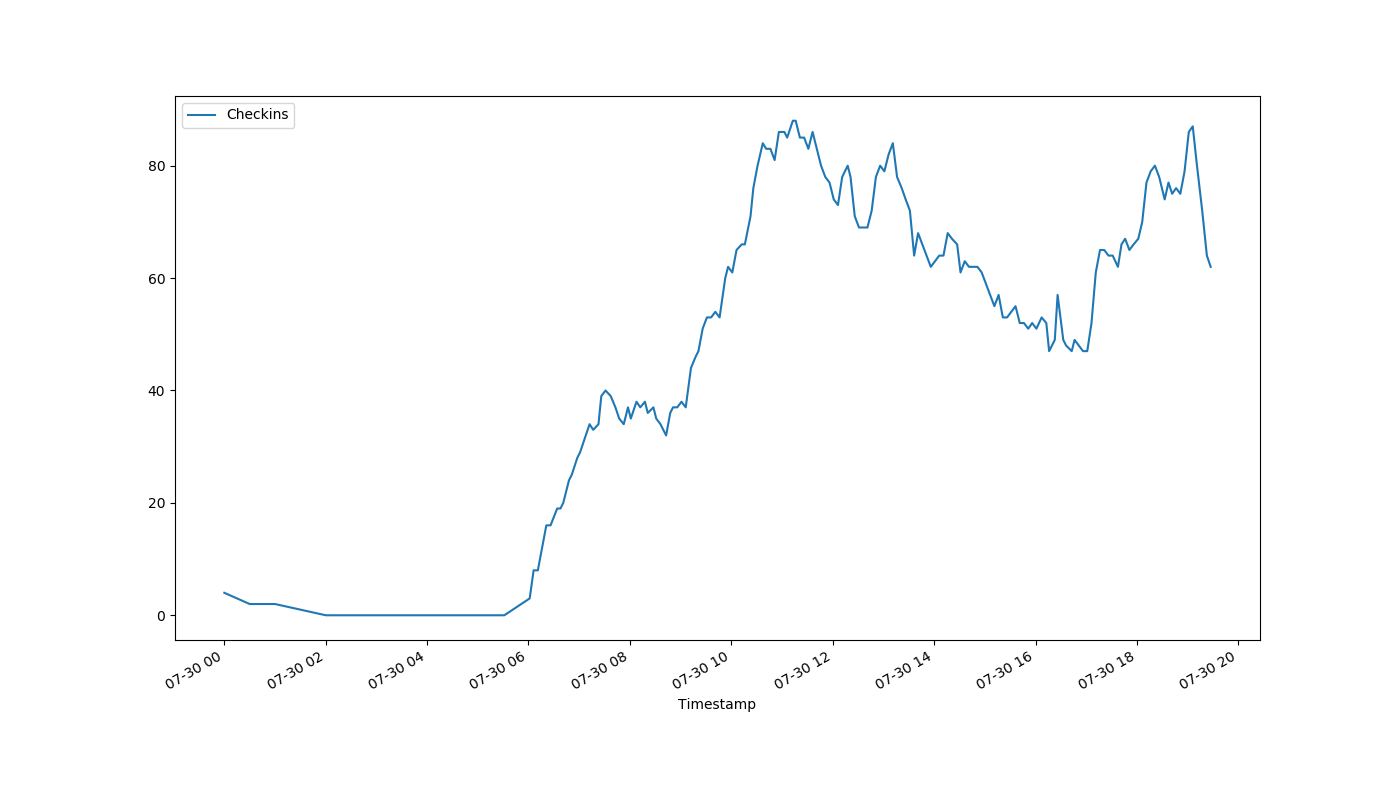
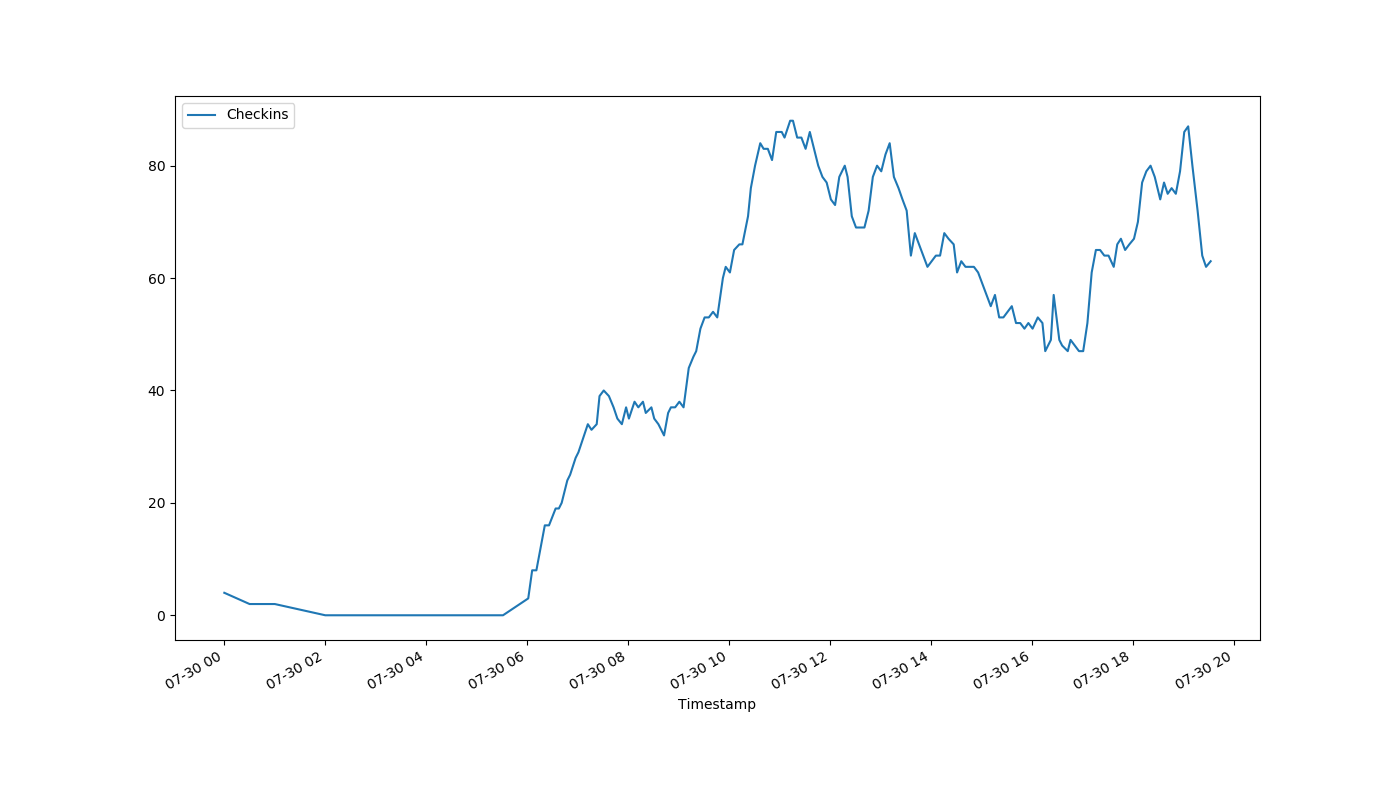
auto-Jul-30-19:34:27

diff --git a/index.html b/index.html
@@ -1,1 +1,1 @@
-<!DOCTYPE html><html><head><meta http-equiv="refresh" content="30"><link rel='stylesheet' href='holmcurrent.css'></head><body><p id='count'>-1</p><div id='graph-wrap'><img id='graph' src='holmgraph-Jul-30.png'></div><p id='updated'>Last updated 19:32:10 / 19:31:23</p></body></html>
+<!DOCTYPE html><html><head><meta http-equiv="refresh" content="30"><link rel='stylesheet' href='holmcurrent.css'></head><body><p id='count'>63</p><div id='graph-wrap'><img id='graph' src='holmgraph-Jul-30.png'></div><p id='updated'>Last updated 19:33:10 / 19:32:44</p></body></html>
